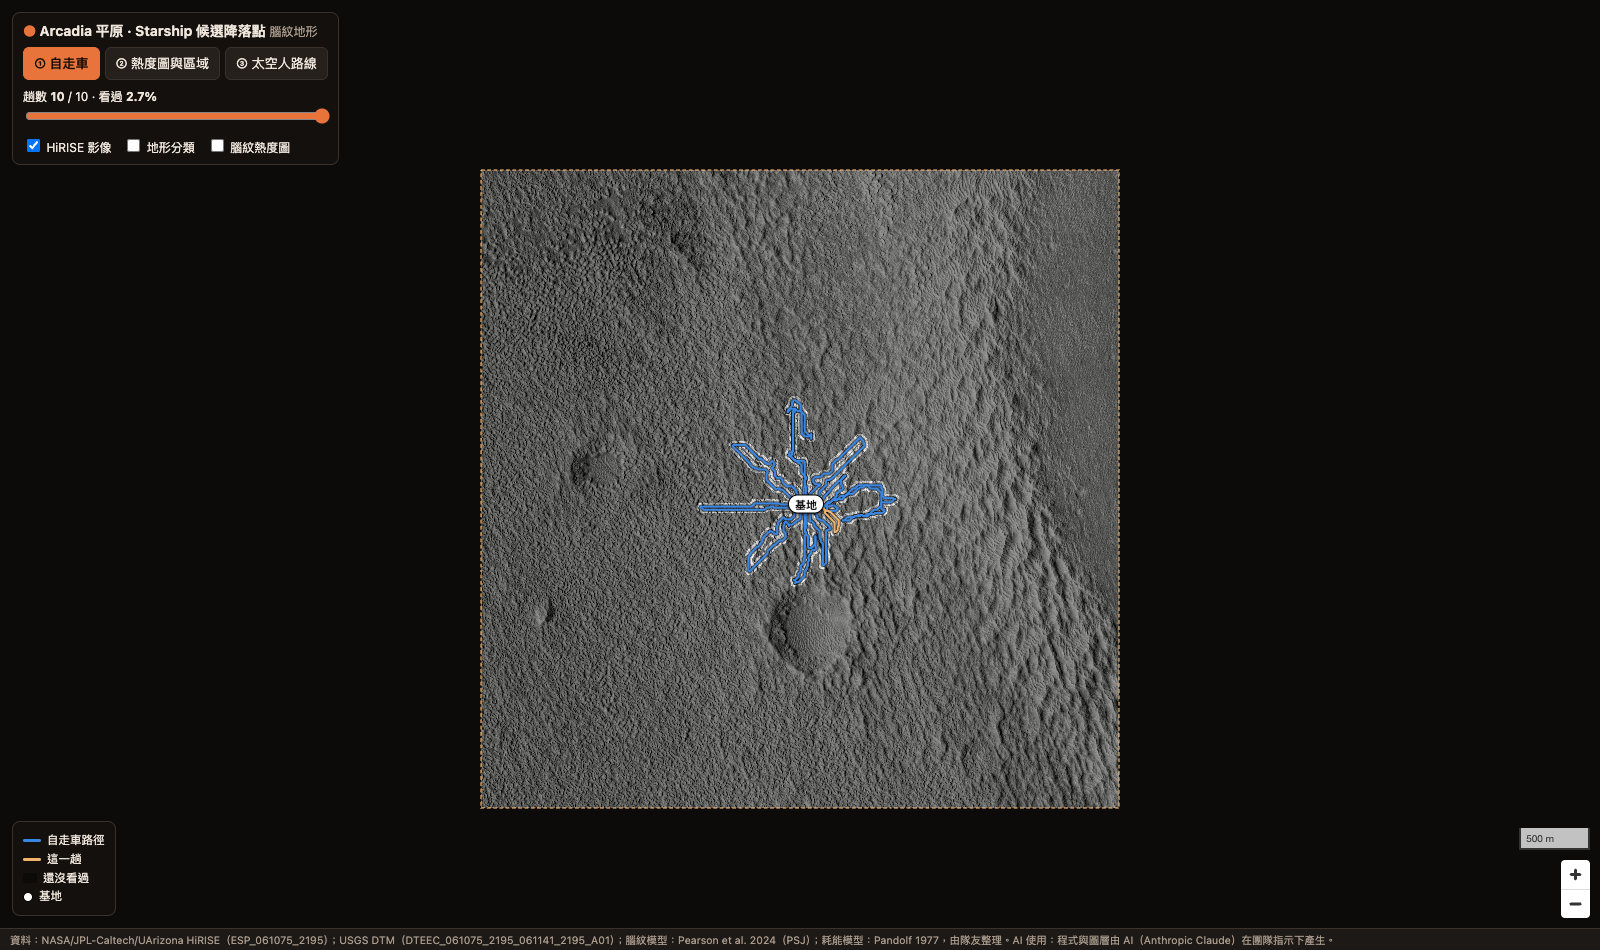
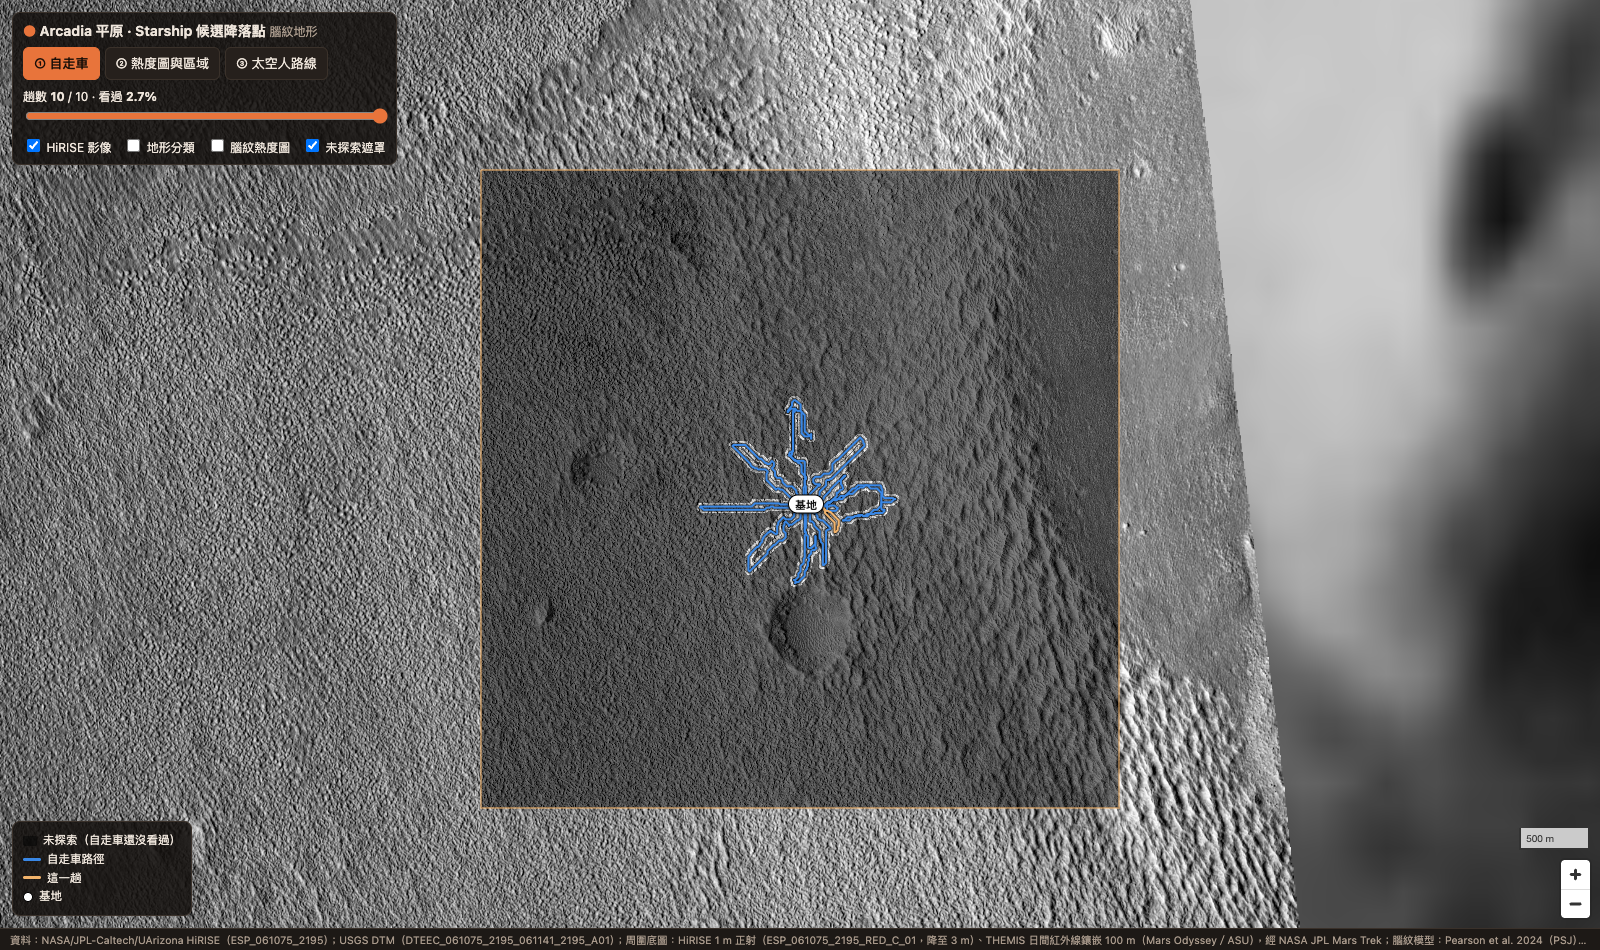
Arcadia context basemaps + unexplored mask: whole HiRISE strip (RED_C 1 m ortho at 3 m, 8.4 x 12.1 km) and Mars Trek THEMIS Day IR (+-75 km) under the study area; zoom-out/pan widened (minZoom 6, bounded to the Trek image), initial view unchanged, thin solid study-area outline, footer credit. Brain 
Claude-Session: https://claude.ai/code/session_01PJvXnofSRBXUdNFScTHsf8

diff --git a/web/arcadia.js b/web/arcadia.js
@@ -5,11 +5,12 @@
 const D = 'data/arcadia/';
 const $ = (s) => document.querySelector(s);
 const abs = (u) => new URL(u, location.href).href;
-const S = { step: 1, loop: 10, when: 'after', markers: [] };
-const C_ROVER = '#3987e5', C_ROVER_NOW = '#f2b36b', C_ROUTE = '#38e1ff', C_TGT = '#ffd23f', C_BEFORE = '#c6a6ff';
+const S = { step: 1, loop: 10, markers: [] };
+const C_ROVER = '#3987e5', C_ROVER_NOW = '#f2b36b', C_ROUTE = '#38e1ff', C_TGT = '#ffd23f';
 
 async function init() {
   S.d = await (await fetch(D + 'arcadia.json')).json();
+  S.ctx = await fetch(D + 'context.json').then((r) => (r.ok ? r.json() : null)).catch(() => null);
   const im = new Image(); im.src = D + S.d.files.seen_loop; await im.decode();
   const c = document.createElement('canvas'); c.width = im.width; c.height = im.height;
   const x = c.getContext('2d', { willReadFrequently: true }); x.drawImage(im, 0, 0);
@@ -24,9 +25,12 @@ async function init() {
 
 function buildMap() {
   const d = S.d, c = d.aoi_corners;
+  // outer extent the user can pan/zoom out to: the Mars Trek context image (else the HiRISE strip, else the AOI)
+  const outer = S.ctx ? (S.ctx.trek || S.ctx.strip).coordinates : c;
   const map = new maplibregl.Map({
     container: 'map', bounds: [[c[0][0], c[2][1]], [c[1][0], c[0][1]]], fitBoundsOptions: { padding: 40 },
-    maxZoom: 20, minZoom: 10, renderWorldCopies: false, dragRotate: false, pitchWithRotate: false,
+    maxZoom: 20, minZoom: S.ctx ? 6 : 10, renderWorldCopies: false,
+    maxBounds: S.ctx ? [[outer[0][0], outer[2][1]], [outer[1][0], outer[0][1]]] : undefined, dragRotate: false, pitchWithRotate: false,
     style: { version: 8, sources: {}, layers: [{ id: 'bg', type: 'background', paint: { 'background-color': '#0d0b0a' } }] },
     attributionControl: false,
   });
@@ -38,22 +42,30 @@ function buildMap() {
       map.addSource(id, { type: 'image', url: abs(D + f), coordinates: c });
       map.addLayer({ id, type: 'raster', source: id, paint: { 'raster-fade-duration': 0, ...paint } });
     };
+    // context basemaps under the study area (display only): Mars Trek THEMIS Day IR, then the whole HiRISE strip at 3 m
+    if (S.ctx && S.ctx.trek) {
+      map.addSource('trek', { type: 'image', url: abs(D + S.ctx.trek.file), coordinates: S.ctx.trek.coordinates });
+      map.addLayer({ id: 'trek', type: 'raster', source: 'trek', paint: { 'raster-fade-duration': 0, 'raster-brightness-max': 0.8 } });
+    }
+    if (S.ctx && S.ctx.strip) {
+      map.addSource('strip', { type: 'image', url: abs(D + S.ctx.strip.file), coordinates: S.ctx.strip.coordinates });
+      map.addLayer({ id: 'strip', type: 'raster', source: 'strip', paint: { 'raster-fade-duration': 0 } });
+    }
     img('hirise', d.files.hirise);
     img('classes', d.files.classes, { 'raster-resampling': 'nearest' });
     img('brain_all', d.files.brain_all, { 'raster-resampling': 'nearest' });
-    img('brain_seen', d.files.brain_seen, { 'raster-resampling': 'nearest' });
     map.addSource('veil', { type: 'canvas', canvas: 'veil', coordinates: c, animate: false });
     map.addLayer({ id: 'veil', type: 'raster', source: 'veil', paint: { 'raster-fade-duration': 0, 'raster-resampling': 'nearest' } });
     const gj = (features) => ({ type: 'FeatureCollection', features });
     const aoi = [...c, c[0]];
     map.addSource('aoi', { type: 'geojson', data: gj([{ type: 'Feature', geometry: { type: 'LineString', coordinates: aoi } }]) });
-    map.addLayer({ id: 'aoi', type: 'line', source: 'aoi', paint: { 'line-color': '#f2b36b', 'line-width': 1.2, 'line-dasharray': [3, 2] } });
+    map.addLayer({ id: 'aoi', type: 'line', source: 'aoi', paint: { 'line-color': '#f2b36b', 'line-width': 1.2, 'line-opacity': 0.9 } });
     map.addSource('rover', { type: 'geojson', data: gj(d.rover.loops.map((L) => ({ type: 'Feature', properties: { id: L.id }, geometry: { type: 'LineString', coordinates: L.path } }))) });
     map.addLayer({ id: 'rover-casing', type: 'line', source: 'rover', layout: { 'line-join': 'round', 'line-cap': 'round' }, paint: { 'line-color': '#000', 'line-width': 4, 'line-opacity': 0.6 } });
     map.addLayer({ id: 'rover', type: 'line', source: 'rover', layout: { 'line-join': 'round', 'line-cap': 'round' }, paint: { 'line-color': C_ROVER, 'line-width': 2 } });
     const blocks = (lst, when) => lst.map((t) => ({ type: 'Feature', properties: { id: t.id, when }, geometry: { type: 'Polygon', coordinates: [t.block] } }));
-    map.addSource('tgt', { type: 'geojson', data: gj([...blocks(d.targets.after, 'after'), ...blocks(d.targets.before, 'before')]) });
-    map.addLayer({ id: 'tgt', type: 'line', source: 'tgt', paint: { 'line-color': ['match', ['get', 'when'], 'after', C_TGT, C_BEFORE], 'line-width': 2.5 } });
+    map.addSource('tgt', { type: 'geojson', data: gj(blocks(d.targets.after, 'after')) });
+    map.addLayer({ id: 'tgt', type: 'line', source: 'tgt', paint: { 'line-color': C_TGT, 'line-width': 2.5 } });
     map.addSource('route', { type: 'geojson', data: gj(d.route.legs.map((L, i) => ({ type: 'Feature', properties: { i }, geometry: { type: 'LineString', coordinates: L.path } }))) });
     map.addLayer({ id: 'route-casing', type: 'line', source: 'route', layout: { 'line-join': 'round', 'line-cap': 'round' }, paint: { 'line-color': '#000', 'line-width': 6, 'line-opacity': 0.6 } });
     map.addLayer({ id: 'route', type: 'line', source: 'route', layout: { 'line-join': 'round', 'line-cap': 'round' }, paint: { 'line-color': C_ROUTE, 'line-width': 3 } });
@@ -68,9 +80,8 @@ function buildMap() {
 
 function wire() {
   document.querySelectorAll('.steps .btn').forEach((b) => b.onclick = () => setStep(+b.dataset.step));
-  document.querySelectorAll('.seg .btn').forEach((b) => b.onclick = () => { S.when = b.dataset.when; apply(); frame(); });
   $('#loop').oninput = () => { S.loop = +$('#loop').value; apply(); };
-  ['#lyrImg', '#lyrCls', '#lyrHeat'].forEach((s) => $(s).onchange = apply);
+  ['#lyrImg', '#lyrCls', '#lyrHeat', '#lyrMask'].forEach((s) => $(s).onchange = apply);
 }
 
 function setStep(n) {
@@ -78,7 +89,6 @@ function setStep(n) {
   $('#lyrCls').checked = false;
   $('#lyrHeat').checked = n === 2;
   if (n === 1) { S.loop = S.d.rover.loops.length; $('#loop').value = S.loop; }
-  if (n === 2) S.when = 'after';
   $('#card').hidden = true;
   apply();
   frame();
@@ -87,7 +97,7 @@ function setStep(n) {
 function frame() {
   const d = S.d, c = d.aoi_corners;
   let pts = [c[0], c[2]];
-  if (S.step === 2 && S.when === 'after') pts = d.rover.loops.flatMap((L) => L.path);
+  if (S.step === 2) pts = d.rover.loops.flatMap((L) => L.path);
   if (S.step === 3) pts = d.route.legs.flatMap((L) => L.path);
   const xs = pts.map((p) => p[0]), ys = pts.map((p) => p[1]);
   S.map.fitBounds([[Math.min(...xs), Math.min(...ys)], [Math.max(...xs), Math.max(...ys)]], { padding: { top: 170, bottom: 120, left: 80, right: 80 }, duration: 0, maxZoom: 17 });
@@ -97,7 +107,7 @@ function drawVeil(k, alpha) {
   const px = S.veilImg.data, sl = S.seenLoop;
   for (let i = 0; i < sl.length; i++) {
     const seen = sl[i] > 0 && sl[i] <= k;
-    px[4 * i] = 8; px[4 * i + 1] = 6; px[4 * i + 2] = 5; px[4 * i + 3] = seen ? 0 : alpha;
+    px[4 * i] = 0; px[4 * i + 1] = 0; px[4 * i + 2] = 0; px[4 * i + 3] = seen ? 0 : alpha;
   }
   S.veilCtx.putImageData(S.veilImg, 0, 0);
   const src = S.map.getSource('veil'); if (src) { src.play(); src.pause(); }
@@ -108,27 +118,24 @@ function vis(id, on) { S.map.setLayoutProperty(id, 'visibility', on ? 'visible' 
 function apply() {
   const d = S.d, m = S.map, n = S.step;
   document.querySelectorAll('.steps .btn').forEach((b) => b.classList.toggle('active', +b.dataset.step === n));
-  document.querySelectorAll('.seg .btn').forEach((b) => b.classList.toggle('active', b.dataset.when === S.when));
-  $('#ctl1').hidden = n !== 1; $('#ctl2').hidden = n !== 2;
-  const before = n === 2 && S.when === 'before';
+  $('#ctl1').hidden = n !== 1;
   const heat = $('#lyrHeat').checked;
   vis('hirise', $('#lyrImg').checked);
+  if (m.getLayer('strip')) vis('strip', $('#lyrImg').checked);
   vis('classes', $('#lyrCls').checked);
-  vis('brain_all', heat && (before || n === 3));
-  vis('brain_seen', heat && !before && n !== 3);
-  // veil: unseen ground is dimmed in ① (up to the slider's loop) and in ② after recon
+  vis('brain_all', heat);
+  // unexplored mask: ground the rover has not seen yet (up to the slider's loop in ①, all loops in ② and ③), black at 50 %
   const k = n === 1 ? S.loop : d.rover.loops.length;
-  const veilOn = n === 1 || (n === 2 && !before);
-  if (veilOn) drawVeil(k, n === 1 ? 110 : 150);
-  vis('veil', veilOn);
-  vis('rover', n === 1 || (n === 2 && !before)); vis('rover-casing', n === 1);
+  const maskOn = $('#lyrMask').checked;
+  if (maskOn) drawVeil(k, 128);
+  vis('veil', maskOn);
+  vis('rover', n <= 2); vis('rover-casing', n === 1);
   m.setFilter('rover', ['<=', ['get', 'id'], k]);
   m.setFilter('rover-casing', ['<=', ['get', 'id'], k]);
   m.setPaintProperty('rover', 'line-color', n === 1 ? ['case', ['==', ['get', 'id'], k], C_ROVER_NOW, C_ROVER] : C_ROVER);
   m.setPaintProperty('rover', 'line-opacity', n === 1 ? 1 : 0.45);
   m.setPaintProperty('rover', 'line-width', n === 1 ? 2 : 1.2);
   vis('tgt', n >= 2);
-  m.setFilter('tgt', ['==', ['get', 'when'], before ? 'before' : 'after']);
   vis('route', n === 3); vis('route-casing', n === 3);
   $('#loopLbl').textContent = k;
   if (n === 1) {
@@ -151,8 +158,7 @@ function markers() {
   const d = S.d, n = S.step;
   mk(d.base, 'base', '基地');
   if (n === 2) {
-    const lst = S.when === 'before' ? d.targets.before : d.targets.after;
-    lst.forEach((t) => mk(t.stop, S.when === 'before' ? 'tgt before' : 'tgt', `${t.id} ${t.score.toFixed(2)}`));
+    d.targets.after.forEach((t) => mk(t.stop, 'tgt', `${t.id} ${t.score.toFixed(2)}`));
   }
   if (n === 3) {
     const R = d.route;
@@ -179,8 +185,9 @@ function legend() {
   let h = '';
   if ($('#lyrCls').checked) h += d.classes.map((c) => it(`<i style="background:${c.color}"></i>`, c.zh)).join('');
   if ($('#lyrHeat').checked) h += `<div class="it"><span>腦紋分數</span></div><div class="ramp"></div><div class="rl"><span>0</span><span>0.5</span><span>1</span></div>`;
-  if (n === 1) h += it(`<i class="ln" style="background:${C_ROVER}"></i>`, '自走車路徑') + it(`<i class="ln" style="background:${C_ROVER_NOW}"></i>`, '這一趟') + it('<i style="background:#080605;opacity:.6"></i>', '還沒看過');
-  if (n === 2) h += it(`<i style="border:2px solid ${S.when === 'before' ? C_BEFORE : C_TGT}"></i>`, S.when === 'before' ? '出發前選的 4 區（60 m）' : '偵察後選的 4 區（60 m）') + (S.when === 'after' ? it('<i style="background:#080605;opacity:.7"></i>', '自走車沒看過') : '');
+  if ($('#lyrMask').checked) h += it('<i style="background:#000;opacity:.5"></i>', '未探索（自走車還沒看過）');
+  if (n === 1) h += it(`<i class="ln" style="background:${C_ROVER}"></i>`, '自走車路徑') + it(`<i class="ln" style="background:${C_ROVER_NOW}"></i>`, '這一趟');
+  if (n === 2) h += it(`<i style="border:2px solid ${C_TGT}"></i>`, '偵察後選的 4 區（60 m）');
   if (n === 3) {
     const t = d.route.total;
     h += it(`<i class="ln" style="background:${C_ROUTE}"></i>`, `太空人路線：${d.route.n_stops} 站，${(t.distance_m / 1000).toFixed(2)} km，${Math.round(t.kcal)} kcal`);

diff --git a/web/arcadia.html b/web/arcadia.html
@@ -25,23 +25,18 @@
     <label for="loop">趟數 <b id="loopLbl">10</b> / <span id="loopMax">10</span> · 看過 <b id="seenLbl"></b></label>
     <input id="loop" type="range" min="0" max="10" step="1" value="10">
   </div>
-  <div id="ctl2" class="ctl">
-    <div class="seg" role="group" aria-label="熱度圖範圍">
-      <button class="btn sm" data-when="after">偵察後（看過的範圍）</button>
-      <button class="btn sm" data-when="before">出發前（全區）</button>
-    </div>
-  </div>
   <div class="layers" role="group" aria-label="圖層">
     <label><input type="checkbox" id="lyrImg" checked> HiRISE 影像</label>
     <label><input type="checkbox" id="lyrCls"> 地形分類</label>
     <label><input type="checkbox" id="lyrHeat"> 腦紋熱度圖</label>
+    <label><input type="checkbox" id="lyrMask" checked> 未探索遮罩</label>
   </div>
 </div>
 
 <div id="legend" class="float"></div>
 <div id="card" class="float" hidden></div>
 
-<footer id="foot">資料：NASA/JPL-Caltech/UArizona HiRISE（ESP_061075_2195）；USGS DTM（DTEEC_061075_2195_061141_2195_A01）；腦紋模型：Pearson et al. 2024（PSJ）；耗能模型：Pandolf 1977，由隊友整理。AI 使用：程式與圖層由 AI（Anthropic Claude）在團隊指示下產生。</footer>
+<footer id="foot">資料：NASA/JPL-Caltech/UArizona HiRISE（ESP_061075_2195）；USGS DTM（DTEEC_061075_2195_061141_2195_A01）；周圍底圖：HiRISE 1 m 正射（ESP_061075_2195_RED_C_01，降至 3 m）、THEMIS 日間紅外線鑲嵌 100 m（Mars Odyssey／ASU），經 NASA JPL Mars Trek；腦紋模型：Pearson et al. 2024（PSJ）；耗能模型：Pandolf 1977，由隊友整理。AI 使用：程式與圖層由 AI（Anthropic Claude）在團隊指示下產生。</footer>
 
 <script src="lib/maplibre-gl.js"></script>
 <script src="arcadia.js"></script>

diff --git a/web/arcadia.css b/web/arcadia.css
@@ -5,7 +5,7 @@ body.arc #map { position: absolute; inset: 0 0 22px 0; }
 #box { left: 12px; top: 12px; max-width: min(430px, calc(100vw - 24px)); }
 #box .ttl { font-weight: 650; font-size: 14px; margin-bottom: 6px; }
 #box .ttl .home { color: var(--accent); text-decoration: none; }
-.steps, .seg, .layers { display: flex; flex-wrap: wrap; gap: 5px; }
+.steps, .layers { display: flex; flex-wrap: wrap; gap: 5px; }
 .layers { margin-top: 8px; gap: 4px 12px; font-size: 12px; }
 .ctl { margin-top: 8px; font-size: 12px; }
 .ctl input[type=range] { width: 100%; accent-color: var(--accent); }
@@ -27,5 +27,4 @@ body.arc #map { position: absolute; inset: 0 0 22px 0; }
 .mk { font: 600 11px/1 var(--font); padding: 3px 6px; border-radius: 10px; border: 1px solid #000; white-space: nowrap; box-shadow: 0 1px 3px #000a; }
 .mk.base { background: #fff; color: #111; }
 .mk.tgt { background: #ffd23f; color: #1a1205; }
-.mk.tgt.before { background: #c6a6ff; }
 .mk.stop { background: #38e1ff; color: #04161b; border-radius: 50%; width: 22px; height: 22px; padding: 0; display: flex; align-items: center; justify-content: center; font-size: 12px; }

diff --git a/pipeline/arcadia_context.py b/pipeline/arcadia_context.py
@@ -1,0 +1,82 @@
+# SI: written by an AI coding agent (Anthropic Claude via Claude Code) under the team's direction; see docs/AI_USE.md
+"""Arcadia context basemaps for web/arcadia.html (display only, no analysis uses them).
+
+python -m pipeline.arcadia_context
+  1. whole HiRISE strip: RED_C 1 m ortho (same USGS item as the DTM) averaged to ~3 m -> web/data/arcadia/strip.webp
+     (grey stretch matched to hirise.jpg inside the study area; no-data is transparent)
+  2. NASA JPL Mars Trek THEMIS Day IR mosaic around the site (pipeline.trek, zoom 9, +-75 km) -> trek_themis_day.jpg
+Output: web/data/arcadia/context.json (image files + lon/lat corners + credits).
+"""
+from __future__ import annotations
+
+import math
+
+import numpy as np
+import rasterio
+from PIL import Image
+from rasterio.enums import Resampling
+
+from . import trek
+from .common import R_MARS, Scene, log, read_json, write_json
+
+SCENE = "arcadia"
+STRIP_RES_M = 3.0
+TREK_KEY, TREK_ZOOM, TREK_HALF_M = "themis_day", 9, 75000.0
+
+
+def corners(b):
+    """lon/lat corners (NW, NE, SE, SW) of an equirectangular (clon 0, lat_ts 0) box in metres."""
+    W, S, E, N = (math.degrees(v / R_MARS) for v in (b[0], b[1], b[2], b[3]))
+    return [[round(W, 7), round(N, 7)], [round(E, 7), round(N, 7)], [round(E, 7), round(S, 7)], [round(W, 7), round(S, 7)]]
+
+
+def strip(sc: Scene, out):
+    src = sc.raw / sc.source("ortho_1m")["file"]
+    aoi_ll = sc.grid.corners_lonlat(*sc.extent("aoi"))
+    with rasterio.open(src) as s:
+        assert s.crs.to_dict().get("lon_0", 0) == 0 and s.crs.to_dict().get("lat_ts", 0) == 0
+        f = STRIP_RES_M / s.res[0]
+        h, w = round(s.height / f), round(s.width / f)
+        a = s.read(1, out_shape=(h, w), resampling=Resampling.average, masked=True)
+        b = s.bounds
+    valid = ~np.ma.getmaskarray(a) & (a.filled(0) > 0)
+    v = a.filled(0).astype(float)
+    # stretch from the study-area pixels, same percentiles as hirise.jpg (pipeline/arcadia_export.py)
+    lon = np.linspace(b.left, b.right, w + 1)[:-1] + (b.right - b.left) / w / 2
+    lat = np.linspace(b.top, b.bottom, h + 1)[:-1] - (b.top - b.bottom) / h / 2
+    lon, lat = np.degrees(lon / R_MARS), np.degrees(lat / R_MARS)
+    cx = (lon >= aoi_ll[0][0]) & (lon <= aoi_ll[1][0]); cy = (lat <= aoi_ll[0][1]) & (lat >= aoi_ll[2][1])
+    inside = v[np.ix_(cy, cx)][valid[np.ix_(cy, cx)]]
+    lo, hi = np.percentile(inside, [0.5, 99.5])
+    g = (np.clip((v - lo) / (hi - lo), 0, 1) * 255).astype(np.uint8)
+    rgba = np.dstack([g, g, g, np.where(valid, 255, 0).astype(np.uint8)])
+    Image.fromarray(rgba).save(out / "strip.webp", quality=72, method=6)
+    log(SCENE, "context", f"strip {w}x{h} at {STRIP_RES_M} m -> strip.webp {(out / 'strip.webp').stat().st_size / 1e6:.2f} MB")
+    return {"file": "strip.webp", "coordinates": corners(b), "res_m": STRIP_RES_M,
+            "size_km": [round((b.right - b.left) / 1000, 2), round((b.top - b.bottom) / 1000, 2)],
+            "source": sc.source("ortho_1m")["title"], "url": sc.source("ortho_1m")["url"]}
+
+
+def themis(sc: Scene, out):
+    raw = sc.raw / f"trek_{TREK_KEY}.png"
+    if not raw.exists():
+        trek.fetch_layer(sc, TREK_KEY, TREK_ZOOM, TREK_HALF_M)
+    info = read_json(sc.raw / f"trek_{TREK_KEY}.json")
+    Image.open(raw).convert("RGB").save(out / f"trek_{TREK_KEY}.jpg", quality=80)
+    W, S, E, N = info["bounds_lonlat"]
+    return {"file": f"trek_{TREK_KEY}.jpg", "coordinates": [[W, N], [E, N], [E, S], [W, S]],
+            "res_m": round(info["deg_per_px"] * math.pi / 180 * R_MARS), "title": info["title"],
+            "mission": info["mission"], "url": info["url_template"], "zoom": info["zoom"]}
+
+
+def run():
+    sc = Scene(SCENE)
+    out = sc.web
+    doc = {"note": "display-only context basemaps; no computed result uses them",
+           "strip": strip(sc, out), "trek": themis(sc, out)}
+    write_json(out / "context.json", doc)
+    log(SCENE, "context", f"wrote {out / 'context.json'}")
+
+
+if __name__ == "__main__":
+    run()

diff --git a/tools/screenshot_arcadia.py b/tools/screenshot_arcadia.py
@@ -1,5 +1,5 @@
 # SI: written by an AI coding agent (Anthropic Claude via Claude Code) under the team's direction; see docs/AI_USE.md
-"""Headless screenshots of web/arcadia.html steps 1-3 -> qa/arcadia/step{1,2,3}.png
+"""Headless screenshots of web/arcadia.html steps 1-3 (+ zoomed-out context views) -> qa/arcadia/step*.png
 python tools/screenshot_arcadia.py [--url http://127.0.0.1:8765]"""
 import argparse
 from pathlib import Path
@@ -28,7 +28,11 @@ with sync_playwright() as p:
 
     shot("step1_rover", "setStep(1)")
     shot("step2_heat_targets", "setStep(2)")
-    shot("step2b_before_all", "S.when='before'; apply(); frame()")
+    shot("step2c_mask_off", "document.querySelector('#lyrMask').checked = false; apply()")
+    pg.evaluate("document.querySelector('#lyrMask').checked = true")
+    shot("step1_loop3_mask", "setStep(1); S.loop = 3; document.querySelector('#loop').value = 3; apply()")
     shot("step3_route", "setStep(3); showCard('整條路線', S.d.route.total)")
+    shot("step1_zoomed_out", "setStep(1); S.map.jumpTo({ center: S.d.centre, zoom: 10.3 })")
+    shot("step1_regional", "setStep(1); S.map.jumpTo({ center: S.d.centre, zoom: 7.6 })")
     print("errors:", errors)
     br.close()
